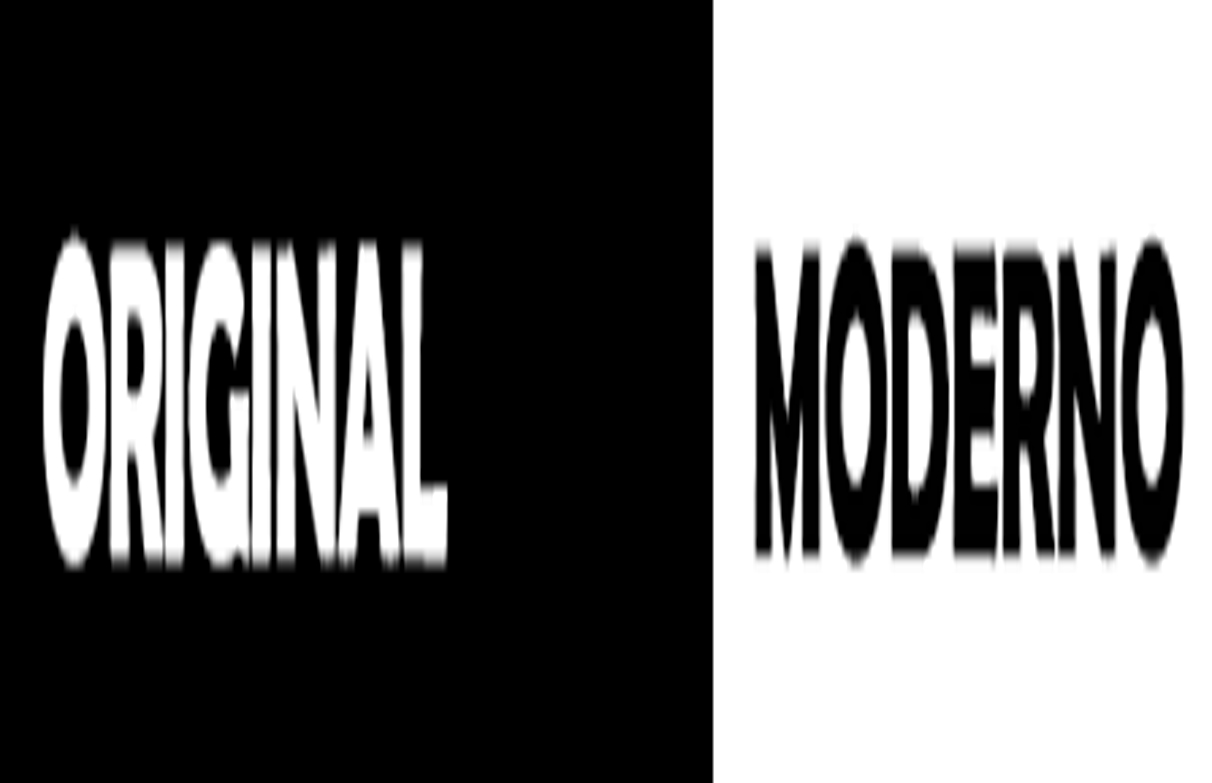
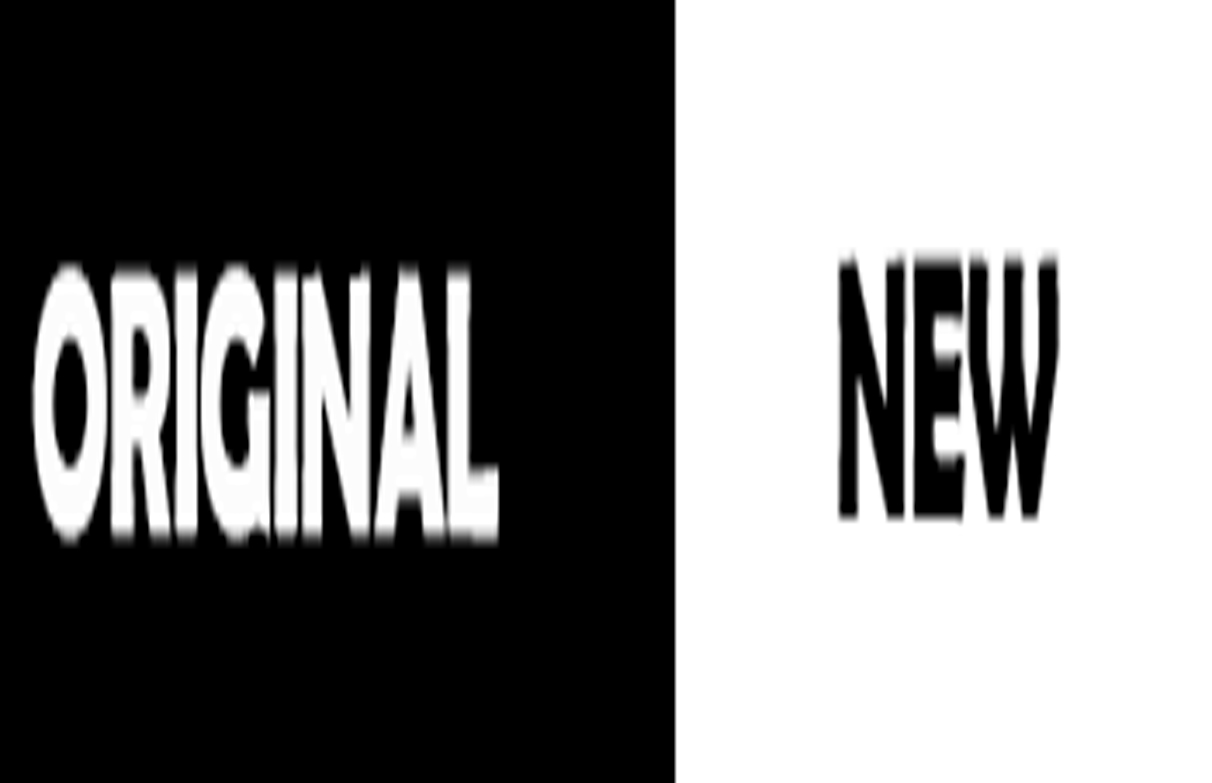
nuevo menu

Changed region(s): [[0.5495, 0.0, 0.9769, 1.0], [0.0, 0.3065, 0.4274, 0.7356]]

diff --git a/MidiMaze/src/configuracionAvanzada.h b/MidiMaze/src/configuracionAvanzada.h
@@ -10,7 +10,7 @@ public:
 
     bool shown;
     vector<glm::vec4> buttons;
-    Version movimiento, IA;
+    Version movimiento, IA, appearence, safer;
     Volume vol;
 
     // constructor, expects a filepath to a 3D model.
@@ -81,14 +81,23 @@ public:
         movimiento.checkButton(xPos, yPos, ourShader);
         IA.checkButton(xPos, yPos, ourShader);
         vol.checkButton(xPos, yPos, ourShader);
+        appearence.checkButton(xPos, yPos, ourShader);
+        safer.checkButton(xPos, yPos, ourShader);
     };
 
     void setUpVersions(glm::vec3 v1, glm::vec3 v2, Shader& ourShader) {
         double totalx = v2.x - v1.x;
         double totaly = 3 - v1.y;
-        movimiento = Version(glm::vec3(v1.x + 0.241f * totalx, v1.y + 0.6f * totaly, v1.z + 0.026f), glm::vec3(v1.x + 0.418f * totalx, v1.y + 0.6f * totaly, v1.z + 0.026f), static_cast<float>(v1.y + 0.665f * totaly), 0.39f, ourShader);
-        IA = Version(glm::vec3(v1.x + 0.241f * totalx, v1.y + 0.525f * totaly, v1.z + 0.0255f), glm::vec3(v1.x + 0.418f * totalx, v1.y + 0.525f * totaly, v1.z + 0.0255f), static_cast<float>(v1.y + 0.59f * totaly), 0.475f, ourShader);
-        vol = Volume(glm::vec3(v1.x + 0.241f * totalx, v1.y + 0.435f * totaly, v1.z + 0.0255f), glm::vec3(v1.x + 0.515f * totalx, v1.y + 0.435f * totaly, v1.z + 0.0255f), static_cast<float>(v1.y + 0.50f * totaly), 0.55f, ourShader);
+        float yM = 0.665f;
+        float yI = yM - 0.065;
+        float yA = yI - 0.065;
+        float yS = yA - 0.065;
+        float yVol = yS - 0.065;
+        movimiento = Version(glm::vec3(v1.x + 0.35f * totalx, v1.y + yM * totaly, v1.z + 0.026f), glm::vec3(v1.x + 0.5f * totalx, v1.y + yM * totaly, v1.z + 0.026f), static_cast<float>(v1.y + (yM+0.055) * totaly), 1-yM, ourShader);
+        IA = Version(glm::vec3(v1.x + 0.35f * totalx, v1.y + yI * totaly, v1.z + 0.0255f), glm::vec3(v1.x + 0.5f * totalx, v1.y + yI * totaly, v1.z + 0.0255f), static_cast<float>(v1.y + (yI + 0.055) * totaly), 1-yI, ourShader);
+        appearence = Version(glm::vec3(v1.x + 0.35f * totalx, v1.y + yA * totaly, v1.z + 0.0255f), glm::vec3(v1.x + 0.5f * totalx, v1.y + yA * totaly, v1.z + 0.0255f), static_cast<float>(v1.y + (yA + 0.055) * totaly), 1 - yA, ourShader);
+        safer = Version(glm::vec3(v1.x + 0.35f * totalx, v1.y + yS * totaly, v1.z + 0.0255f), glm::vec3(v1.x + 0.5f * totalx, v1.y + yS * totaly, v1.z + 0.0255f), static_cast<float>(v1.y + (yS + 0.055) * totaly), 1 - yS, ourShader);
+        vol = Volume(glm::vec3(v1.x + 0.275f * totalx, v1.y + yVol * totaly, v1.z + 0.0255f), glm::vec3(v1.x + 0.5f * totalx, v1.y + yVol * totaly, v1.z + 0.0255f), static_cast<float>(v1.y + (yVol + 0.055) * totaly), 1 - yVol, ourShader);
  
     }
 
@@ -117,6 +126,8 @@ public:
             movimiento.draw(ourShader);
             IA.draw(ourShader);
             vol.draw(ourShader);
+            appearence.draw(ourShader);
+            safer.draw(ourShader);
         }
     };
 

diff --git a/MidiMaze/main.cpp b/MidiMaze/main.cpp
@@ -272,8 +272,11 @@ int main()
 
         versionModerna = !menu.config.getMovimientoOriginal();      //VERSION MODERNA RATÓN 
         
-        bool IAModerna = !!menu.config.getIAOriginal();     //Versión moderna IA
+        bool IAModerna = !menu.config.getIAOriginal();     //Versión moderna IA
 
+        versionModernaGraficos = !menu.config.appearence.getOriginal();
+
+        bool safeRegen = !menu.config.safer.getOriginal();
 
         Bullet myBullets(0.1);
         vector<EnemBullet> enemyBullets;
@@ -411,7 +414,7 @@ int main()
             bool mataEnemigo = false;
             string nombreGanador = "";
             int lastVidas = vidas;
-            bool safeRegen = true;
+            
             bool justRegen = currentRegenTime == 1 && safeRegen; // Si justo reaparece, y está activa la opción
             if (justRegen) myEnemies.setInv(deltaTime);
 			

diff --git a/MidiMaze/src/volume.h b/MidiMaze/src/volume.h
@@ -46,9 +46,9 @@ public:
 
         setUpWall(ourShader, 1);
         cout << "DIM:" << ySup << endl;
-        buttons.push_back(glm::vec4(0.24, 0.321, 0.5, 0.56));
-        buttons.push_back(glm::vec4(0.335, 0.415, 0.5, 0.56));
-        buttons.push_back(glm::vec4(0.4325, 0.5125, 0.5, 0.56));
+        buttons.push_back(glm::vec4(0.272, 0.345, where-0.06, where));
+        buttons.push_back(glm::vec4(0.348, 0.425, where-0.06, where));
+        buttons.push_back(glm::vec4(0.427, 0.5, where-0.06, where));
         if (v1.x != v2.x) normal = glm::vec2(0, 1);
         else normal = glm::vec2(1, 0);
     };

diff --git a/MidiMaze/src/scr_Princ.h b/MidiMaze/src/scr_Princ.h
@@ -52,9 +52,9 @@ public:
             setUpDespleg(v1,v2,ourShader);
             setUpConfigAvanzada(v1, v2, ourShader);
 
-            buttons.push_back(glm::vec4(0.177, 0.273, 0, 0.05));
+            buttons.push_back(glm::vec4(0.22, 0.315, 0, 0.05));
             buttons.push_back(glm::vec4(0.187, 0.38, 0.245, 0.51));
-            buttons.push_back(glm::vec4(0.085, 0.14, 0, 0.05));
+            buttons.push_back(glm::vec4(0.01, 0.13, 0, 0.05));
 
             if (v1.x != v2.x) normal = glm::vec2(0, 1);
             else normal = glm::vec2(1, 0);

diff --git a/MidiMaze/src/version.h b/MidiMaze/src/version.h
@@ -46,8 +46,8 @@ public:
 
         setUpWall(ourShader, 0);
         cout << "DIM:" << ySup << endl;
-        buttons.push_back(glm::vec4(0.234, 0.3215, where - 0.06, where));
-        buttons.push_back(glm::vec4(0.334, 0.414, where - 0.06, where));
+        buttons.push_back(glm::vec4(0.3475, 0.415, where - 0.06, where));
+        buttons.push_back(glm::vec4(0.43, 0.498, where - 0.06, where));
         if (v1.x != v2.x) normal = glm::vec2(0, 1);
         else normal = glm::vec2(1, 0);
     };
